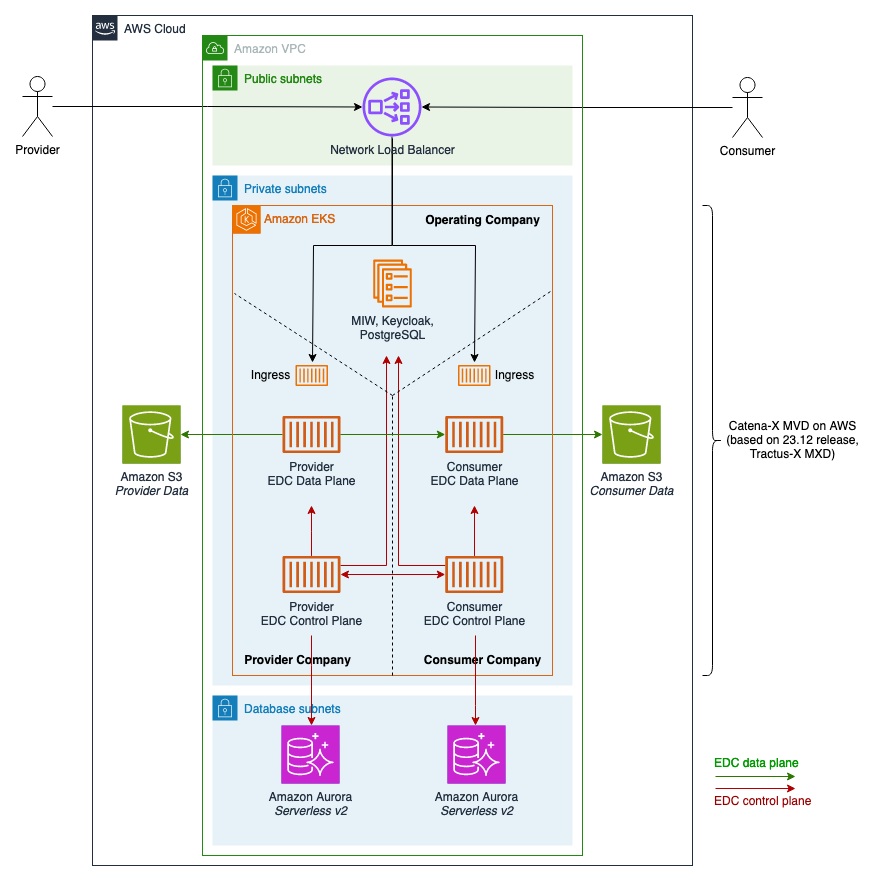
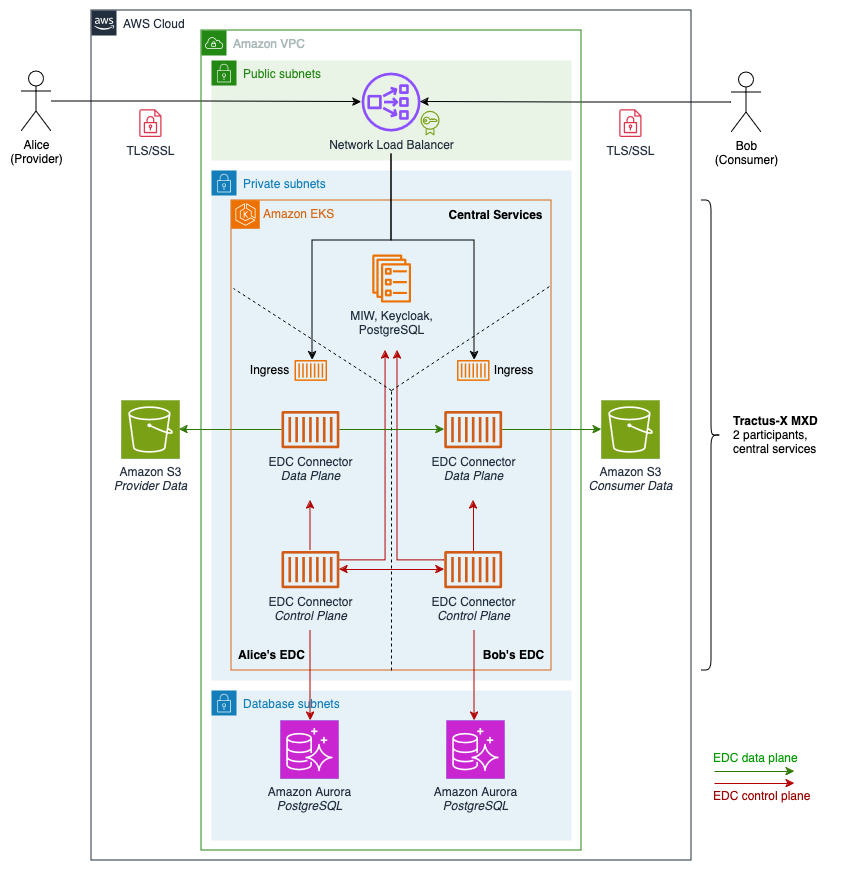
Update all project dependencies, incl. to MXD state from 2024-08-13

Changed region(s): [[0.0, 0.0, 0.9765, 0.992], [0.7934, 0.837, 0.946, 0.93]]

diff --git a/README.md b/README.md
@@ -2,7 +2,7 @@
 
 In October 2023, the Catena-X Automotive Network was productively launched. [Catena-X](https://catena-x.net/) aims to create greater transparency by building a trustworthy, collaborative, open and secure data ecosystem for the automotive industry. [AWS joined Catena-X](https://aws.amazon.com/blogs/industries/aws-joins-catena-x/) as a member in January 2023.
 
-This sample extends Catena-X' [Tractus-X MXD implementation](https://github.com/eclipse-tractusx/tutorial-resources/tree/main/mxd) to deploy a single-command Minimum Viable Dataspace (MVD) for Catena-X on AWS. For users, this serves as a starting point for experimentation around Catena-X onboarding, implementation against the Eclipse Dataspace Components' (EDC) API and realization of initial use cases. This repository provides a reference implementation for Catena-X release [24.03](https://github.com/eclipse-tractusx/tractus-x-release/blob/main/CHANGELOG.md#2403---2024-03-08) on AWS.
+This sample extends Catena-X' [Tractus-X MXD implementation](https://github.com/eclipse-tractusx/tutorial-resources/tree/main/mxd) to deploy a single-command Minimum Viable Dataspace (MVD) for Catena-X on AWS. For users, this serves as a starting point for experimentation around Catena-X onboarding, implementation against the Eclipse Dataspace Components' (EDC) API and realization of initial use cases. **This repository provides a reference implementation for Catena-X release [24.03](https://github.com/eclipse-tractusx/tractus-x-release/blob/main/CHANGELOG.md#2403---2024-03-08) on AWS.**
 
 ## Architecture
 
@@ -26,29 +26,34 @@ The deployment will take 15-20 minutes to complete. After the deployment is done
 ```bash
 ~ kubectl get pod
 
-NAME                                                    READY   STATUS    RESTARTS   AGE
-alice-minio-fd7f4f877-knvk6                             1/1     Running   0          4m47s
-alice-tractusx-connector-controlplane-8cbd78d87-fkr2h   1/1     Running   0          2m58s
-alice-tractusx-connector-dataplane-5874c4fdf6-stn5p     1/1     Running   0          2m58s
-alice-vault-0                                           1/1     Running   0          2m58s
-azurite-5845977b98-6ff7m                                1/1     Running   0          5m4s
-bob-minio-6444984bb6-q222c                              1/1     Running   0          4m47s
-bob-tractusx-connector-controlplane-66f69f7dbc-kkxq9    1/1     Running   0          2m58s
-bob-tractusx-connector-dataplane-575bc9cfcd-rskwm       1/1     Running   0          2m58s
-bob-vault-0                                             1/1     Running   0          2m58s
-keycloak-6f7c877cff-6s6zn                               1/1     Running   0          4m31s
-miw-967d66dd5-7wchx                                     1/1     Running   0          4m31s
-postgres-65d5475f95-tlwz4                               1/1     Running   0          4m47s
+NAME                                                     READY   STATUS              RESTARTS   AGE
+alice-minio-7b4b95cf79-r8jt4                             1/1     Running             0          7m13s
+alice-tractusx-connector-controlplane-7ff7b666b9-h24rm   1/1     Running             0          5m2s
+alice-tractusx-connector-dataplane-587bf89d6f-tzqmx      1/1     Running             0          5m2s
+alice-vault-0                                            1/1     Running             0          5m2s
+azurite-7cddb6c555-fjtvd                                 1/1     Running             0          7m29s
+backend-service-67dd4b974-h2x2s                          0/1     ErrImageNeverPull   0          7m13s
+bdrs-server-6f5d74c55f-m79hc                             1/1     Running             0          7m9s
+bdrs-server-vault-0                                      1/1     Running             0          7m9s
+bob-minio-54c4d656d6-j7hzh                               1/1     Running             0          7m13s
+bob-tractusx-connector-controlplane-5c94c684c-kzvtp      1/1     Running             0          5m1s
+bob-tractusx-connector-dataplane-58d6d4464d-q4f4d        1/1     Running             0          5m1s
+bob-vault-0                                              1/1     Running             0          5m1s
+common-postgres-5847467f7-n6w2m                          1/1     Running             0          7m29s
+keycloak-f8794dcb8-bxv5r                                 1/1     Running             0          7m13s
+miw-7645f67cf9-fkxbq                                     1/1     Running             0          7m13s
 
 ~ kubectl get ing
 
 NAME            CLASS   HOSTS   ADDRESS                                      PORTS   AGE
-alice-ingress   nginx   *       <lb-domain>.elb.eu-central-1.amazonaws.com   80      5m22s
-bob-ingress     nginx   *       <lb-domain>.elb.eu-central-1.amazonaws.com   80      5m23s
-mxd-ingress     nginx   *       <lb-domain>.elb.eu-central-1.amazonaws.com   80      3m40s
+alice-ingress   nginx   *       <lb-domain>.elb.eu-central-1.amazonaws.com   80      8m14s
+bob-ingress     nginx   *       <lb-domain>.elb.eu-central-1.amazonaws.com   80      8m14s
+mxd-ingress     nginx   *       <lb-domain>.elb.eu-central-1.amazonaws.com   80      6m7s
 ```
 
-All pods should be in a ready state, the seeding jobs should complete successfully. Concludingly, use this project's [Insomnia](https://github.com/aws-samples/minimum-viable-dataspace-for-catenax/tree/main/insomnia) file as a starting point to perform API operations against the MVD's EDC connectors. For further information about the MVD and its components on AWS refer to this repository's [docs section](https://github.com/aws-samples/minimum-viable-dataspace-for-catenax/tree/main/docs).
+**Note: Currently, the concluding MXD deployment times out during creation of the `kubernetes_deployment.backend-service` resource, terminating with the error `Waiting for rollout to finish: 1 replicas wanted; 0 replicas Ready`. This is an expected behavior and is due to the MXD's recently added backend service requiring a local Gradle build and loading process of the resulting container image, which this project does not yet support.**
+
+All pods, except for the `backend-service`, should be in a ready state, the seeding jobs should complete successfully. Concludingly, use this project's [Insomnia](https://github.com/aws-samples/minimum-viable-dataspace-for-catenax/tree/main/insomnia) file as a starting point to perform API operations against the MVD's EDC connectors. For further information about the MVD and its components on AWS refer to this repository's [docs section](https://github.com/aws-samples/minimum-viable-dataspace-for-catenax/tree/main/docs).
 
 ## Considerations for Production
 
